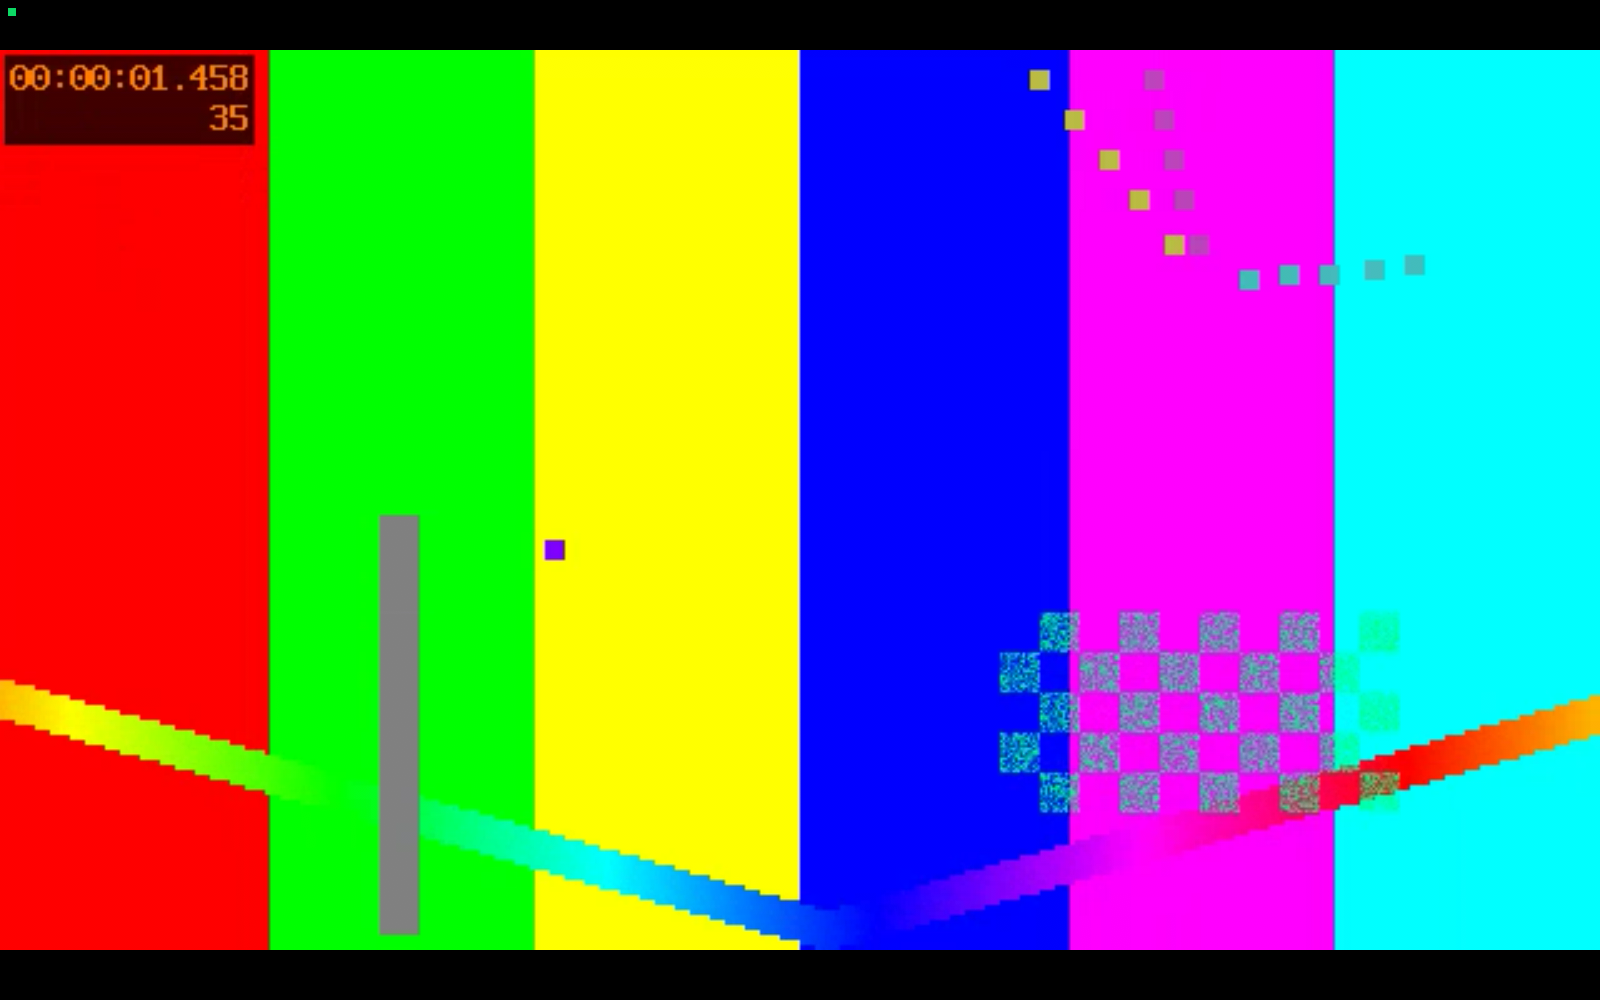
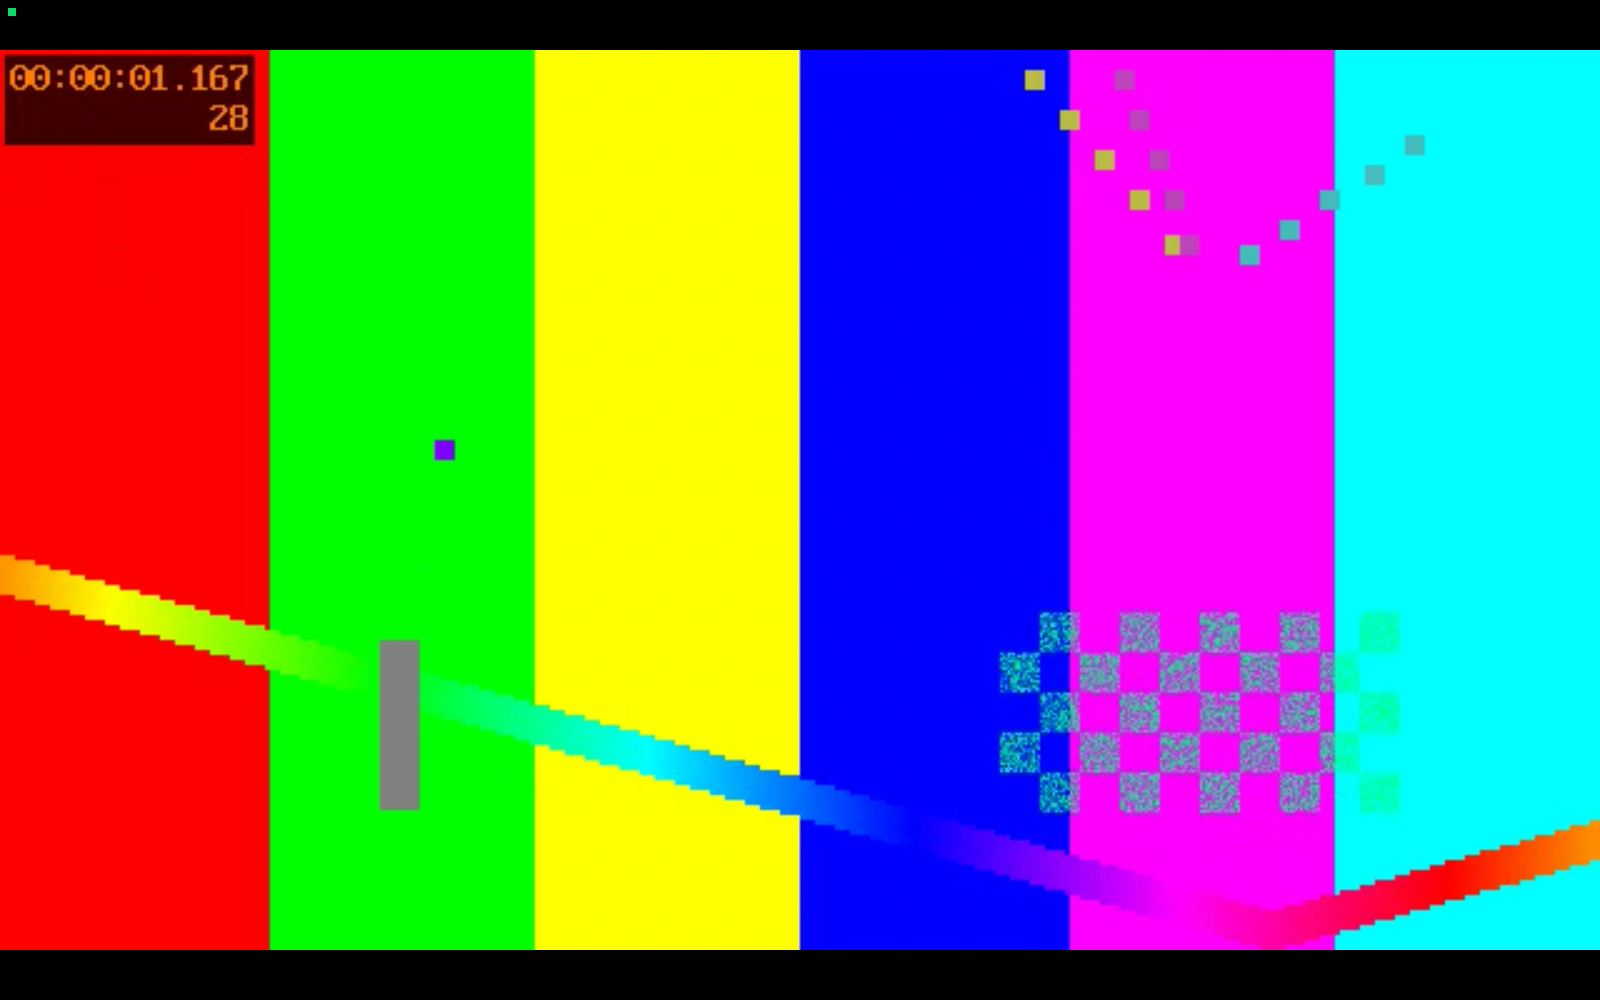
Refresh mpv evidence after Xvfb window placement

diff --git a/docs/qualification/gtk-mpv-482/README.md b/docs/qualification/gtk-mpv-482/README.md
@@ -1,16 +1,16 @@
 # Linux mpv render-thread qualification
 
-The compiled Couch app at `7d9add058e4f87ac415f41049b81b95412bbb20e` passed `TAURI_VIDEO_TELEMETRY=1 bun run test:linux --mpv-threading` on Ubuntu 24.04 ARM64 under Docker, Xvfb and a PulseAudio null sink. The run built the Tauri app and Bun sidecar from that immutable revision. The ordinary Bun checks, Rust native tests and paired-controller smoke also passed.
+The compiled Couch app at `fbebfa45d3bd27df06cdeb6c52ceb41aa25b1a4d` passed `TAURI_VIDEO_TELEMETRY=1 bun run test:linux --mpv-threading` on Ubuntu 24.04 ARM64 under Docker, Xvfb and a PulseAudio null sink. The run built the Tauri app and Bun sidecar from that immutable revision. The ordinary Bun checks, Rust native tests and paired-controller smoke also passed.
 
 The paired controller played a generated 640 x 360 video, sought three times, collected diagnostics while playback advanced, replaced it with a second queue entry, then stopped. A stale seek after Stop did not revive the retired playback. The queue remained stopped across app restart. The two X11 captures show [initial video pixels](initial-video.png) and [replacement video pixels](replacement-video.png) inside the GtkGLArea with Couch controls visible after replacement.
 
 | Operation | Paired-controller acknowledgement |
 | --- | ---: |
-| Seek to 4, 8 and 2 seconds | 1.69, 0.70 and 1.46 ms |
-| Replacement Play | 100.22 ms |
-| Stop | 11.55 ms |
-| Diagnostics export HTTP request | 773.85 ms |
+| Seek to 4, 8 and 2 seconds | 0.50, 0.34 and 0.40 ms |
+| Replacement Play | 2.61 ms |
+| Stop | 1.93 ms |
+| Diagnostics export HTTP request | 521.70 ms |
 
-The [machine-readable receipt](receipt.json) records each sample. Render telemetry rose from 4 to 93 presented frames, reached 26.43 measured FPS and reported zero dropped frames. With libmpv warning events subscribed and the native log truncated before launch, no `mpv_render_context_render() not being called or stuck` message appeared. The pixel assertions passed for both captures.
+The [machine-readable receipt](receipt.json) records each sample. Render telemetry rose from 3 to 69 presented frames, reached 25.46 measured FPS and reported zero dropped frames. With libmpv warning events subscribed and the native log truncated before launch, no `mpv_render_context_render() not being called or stuck` message appeared. The pixel assertions passed for both captures.
 
 This is actual GtkGLArea/libmpv playback with software rendering. It does not establish physical TV, speaker, Wayland or hardware-decoder behavior.
